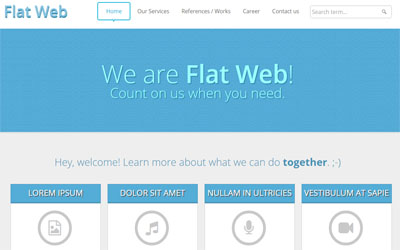
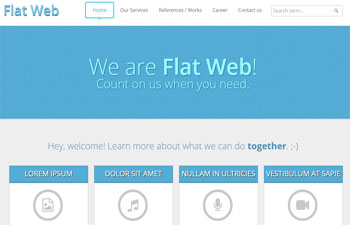
Adjust portfolio projects alignment

diff --git a/index.html b/index.html
@@ -65,9 +65,28 @@
                     
 
                     <div class="portfolio-projects">
+                
                         <div class="project-block">
                             <div class="project-image">
-                                <img class="project-image-one" src="./assets/images/insight-project.jpg" width="400" height="250">
+                                <img class="project-image-under-development" src="http://s16.postimg.org/aeaowcu5x/kitten_placeholder.jpg" width="350" height="225">
+                            </div>
+                            <div class="project-title-space">
+                                <h3 class="project-title"></h3>
+                            </div>
+                            <div class="project-technologies-space">
+                                <p class="project-technologies"></p>
+                            </div>
+                            <div class="project-description-space">
+                                <p class="project-description"></p>
+                            </div>
+                            <div class="project-links-space">
+
+                            </div>
+                        </div> 
+                       
+                        <div class="project-block">
+                            <div class="project-image">
+                                <img class="project-image-insight" src="./assets/images/insight-project.jpg" width="350" height="225">
                             </div>
                             <div class="project-title-space">
                                 <h3 class="project-title"></h3>
@@ -86,25 +105,7 @@
                     
                         <div class="project-block">
                             <div class="project-image">
-                                <img class="project-image-two" src="./assets/images/flat-web-project.jpg" width="400" height="250">
-                            </div>
-                            <div class="project-title-space">
-                                <h3 class="project-title"></h3>
-                            </div>
-                            <div class="project-technologies-space">
-                                <p class="project-technologies"></p>
-                            </div>
-                            <div class="project-description-space">
-                                <p class="project-description"></p>
-                            </div>
-                            <div class="project-links-space">
-
-                            </div>
-                        </div>
-
-                        <div class="project-block">
-                            <div class="project-image">
-                                <img class="project-image-three" src="http://s16.postimg.org/aeaowcu5x/kitten_placeholder.jpg" width="400" height="250">
+                                <img class="project-image-flat-web" src="./assets/images/flat-web-project.jpg" width="350" height="225">
                             </div>
                             <div class="project-title-space">
                                 <h3 class="project-title"></h3>
@@ -122,7 +123,43 @@
                         
                         <div class="project-block">
                             <div class="project-image">
-                                <img class="project-image-four" src="http://s16.postimg.org/aeaowcu5x/kitten_placeholder.jpg" width="400" height="250">
+                                <img class="project-image-four" src="http://s16.postimg.org/aeaowcu5x/kitten_placeholder.jpg" width="350" height="225">
+                            </div>
+                            <div class="project-title-space">
+                                <h3 class="project-title"></h3>
+                            </div>
+                            <div class="project-technologies-space">
+                                <p class="project-technologies"></p>
+                            </div>
+                            <div class="project-description-space">
+                                <p class="project-description"></p>
+                            </div>
+                            <div class="project-links-space">
+
+                            </div>
+                        </div>
+                        
+                        <div class="project-block">
+                            <div class="project-image">
+                                <img class="project-image-five" src="http://s16.postimg.org/aeaowcu5x/kitten_placeholder.jpg" width="350" height="225">
+                            </div>
+                            <div class="project-title-space">
+                                <h3 class="project-title"></h3>
+                            </div>
+                            <div class="project-technologies-space">
+                                <p class="project-technologies"></p>
+                            </div>
+                            <div class="project-description-space">
+                                <p class="project-description"></p>
+                            </div>
+                            <div class="project-links-space">
+
+                            </div>
+                        </div>
+                        
+                        <div class="project-block">
+                            <div class="project-image">
+                                <img class="project-image-six" src="http://s16.postimg.org/aeaowcu5x/kitten_placeholder.jpg" width="350" height="225">
                             </div>
                             <div class="project-title-space">
                                 <h3 class="project-title"></h3>

diff --git a/assets/css/main.css b/assets/css/main.css
@@ -129,8 +129,8 @@ p {
 }
 
 .project-block {
-    max-width: 400px;
-    height: 450px;
+    max-width: 350px;
+    height: 420px;
     width: 100%;
     border: 2px solid #d8d9d9;
     border-radius: 10px;
@@ -141,8 +141,8 @@ p {
 
 .project-image img {
     box-sizing: border-box;
-    max-width: 400px;
-    max-height: 250px;
+    max-width: 350px;
+    max-height: 225px;
     width: 100%;
     height: 100%;
     background: #555;
@@ -150,19 +150,19 @@ p {
 }
 
 .project-title-space {
-    max-width: 400px;
+    max-width: 350px;
     height: 30px;
     border-bottom: 2px solid #d8d9d9;
 }
 
 .project-technologies-space {
-    max-width: 400px;
+    max-width: 350px;
     height: 20px;
     border-bottom: 2px solid #d8d9d9;    
 }
 
 .project-description-space {
-    max-width: 400px;
+    max-width: 350px;
     height: 40px;
     border-bottom: 2px solid #d8d9d9;      
 }
